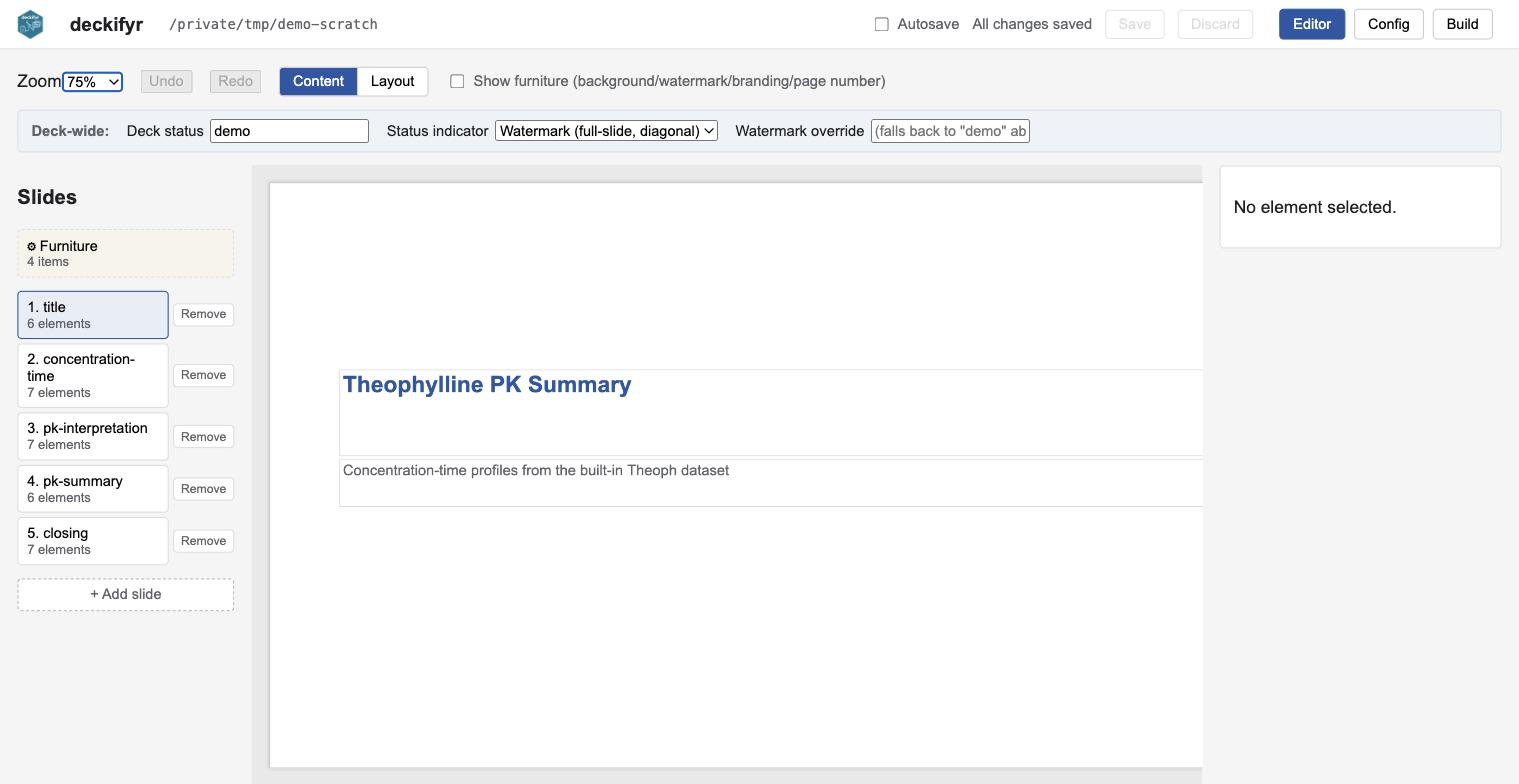
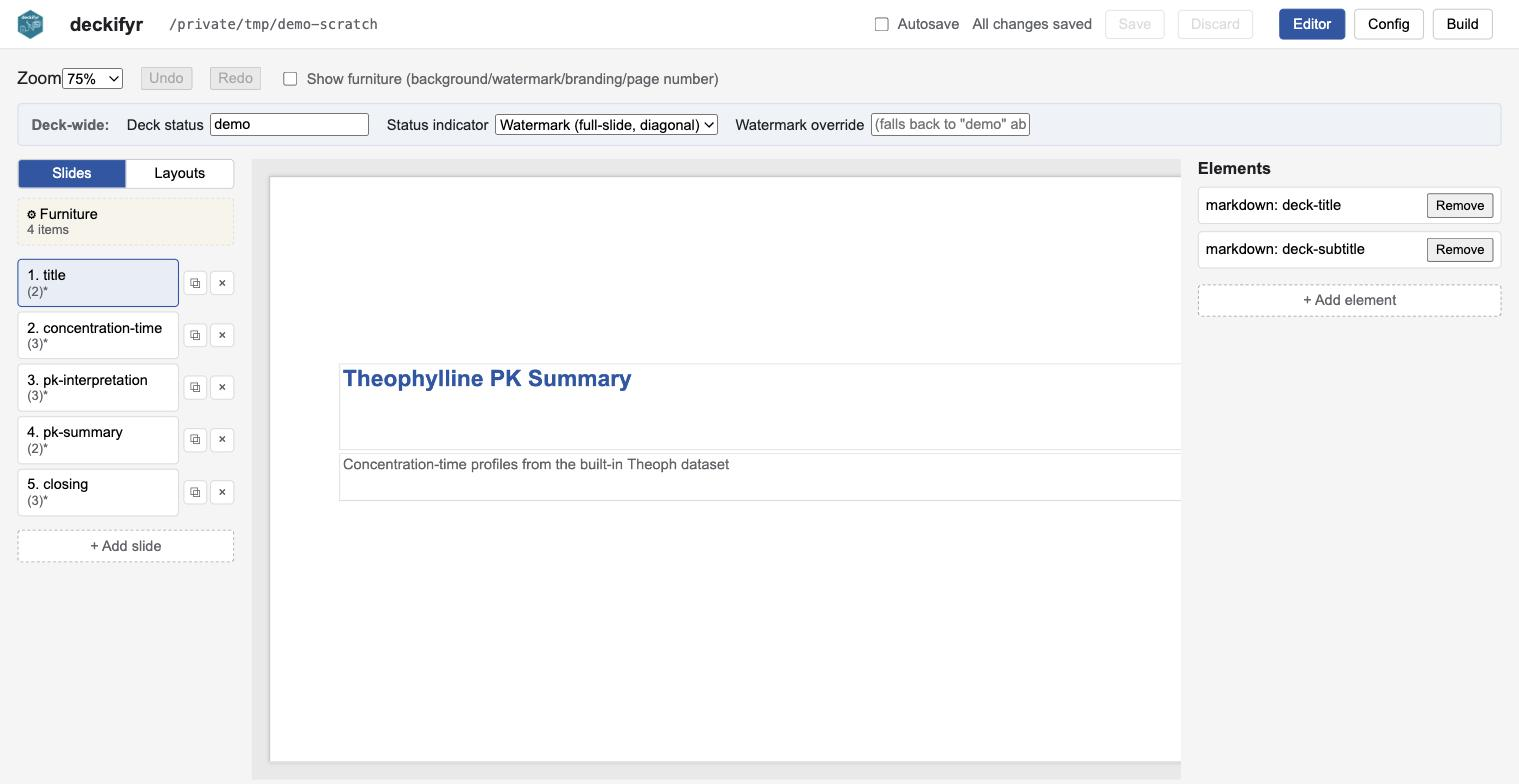
Regenerate web-app-*.png screenshots and update the web editor vignette
The Slides/Layouts mode toggle and the Elements sidebar (both from
the two prior commits, #30 and #31) changed the editor's UI enough
to make the existing man/figures/web-app-*.png screenshots and
vignettes/articles/web-app.Rmd's own prose stale -- most visibly
web-app-layout-tab.png, which depicted the removed per-slide
Content/Layout toolbar toggle.

- Regenerated web-app-editor.png/web-app-furniture.png/
  web-app-add-slide.png against a live deckifyr serve session on a
  scratch copy of examples/demo-deck, matching this repo's own
  documented recipe.
- web-app-layout-tab.png now shows Layouts mode instead of the old
  per-slide toggle (kept the filename -- renaming would only churn
  this file, CONTRIBUTING.md, and the vignette's <img> src for a
  cosmetic reason, and the hook's own header comment now explains
  why).
- Added web-app-add-element.png, a new screenshot for the Elements
  sidebar's "Add element" form (issue #31's core addition, previously
  undocumented) -- tracked in the pre-commit hook's own detection
  regex and header comment, and in CONTRIBUTING.md's file list,
  alongside the existing six.
- Rewrote web-app.Rmd's "What the editor does today" section for the
  new Slides/Layouts toggle (including layout add/remove and the
  unbuildable-reassignment rejection) and the new Elements sidebar
  (element add/remove, folded-in furniture editing); removed the
  now-resolved "Layout view can't add/remove/switch layouts" bullet
[…]

diff --git a/CONTRIBUTING.md b/CONTRIBUTING.md
@@ -65,7 +65,8 @@ excludes).
 
 `man/figures/web-app-editor.png`/`web-app-no-project.png`/
 `web-app-furniture.png`/`web-app-layout-tab.png`/`web-app-add-slide.png`/
-`web-app-build-preview.png`/`web-app-color-swatch.png` (real screenshots
+`web-app-add-element.png`/`web-app-build-preview.png`/
+`web-app-color-swatch.png` (real screenshots
 of a running editor, used in `vignettes/articles/web-app.Rmd`) are a
 second, separate rendered-doc-asset group from the `demo-deck-*` one
 above -- the pre-commit hook flags a `web/src/` change that doesn't also
